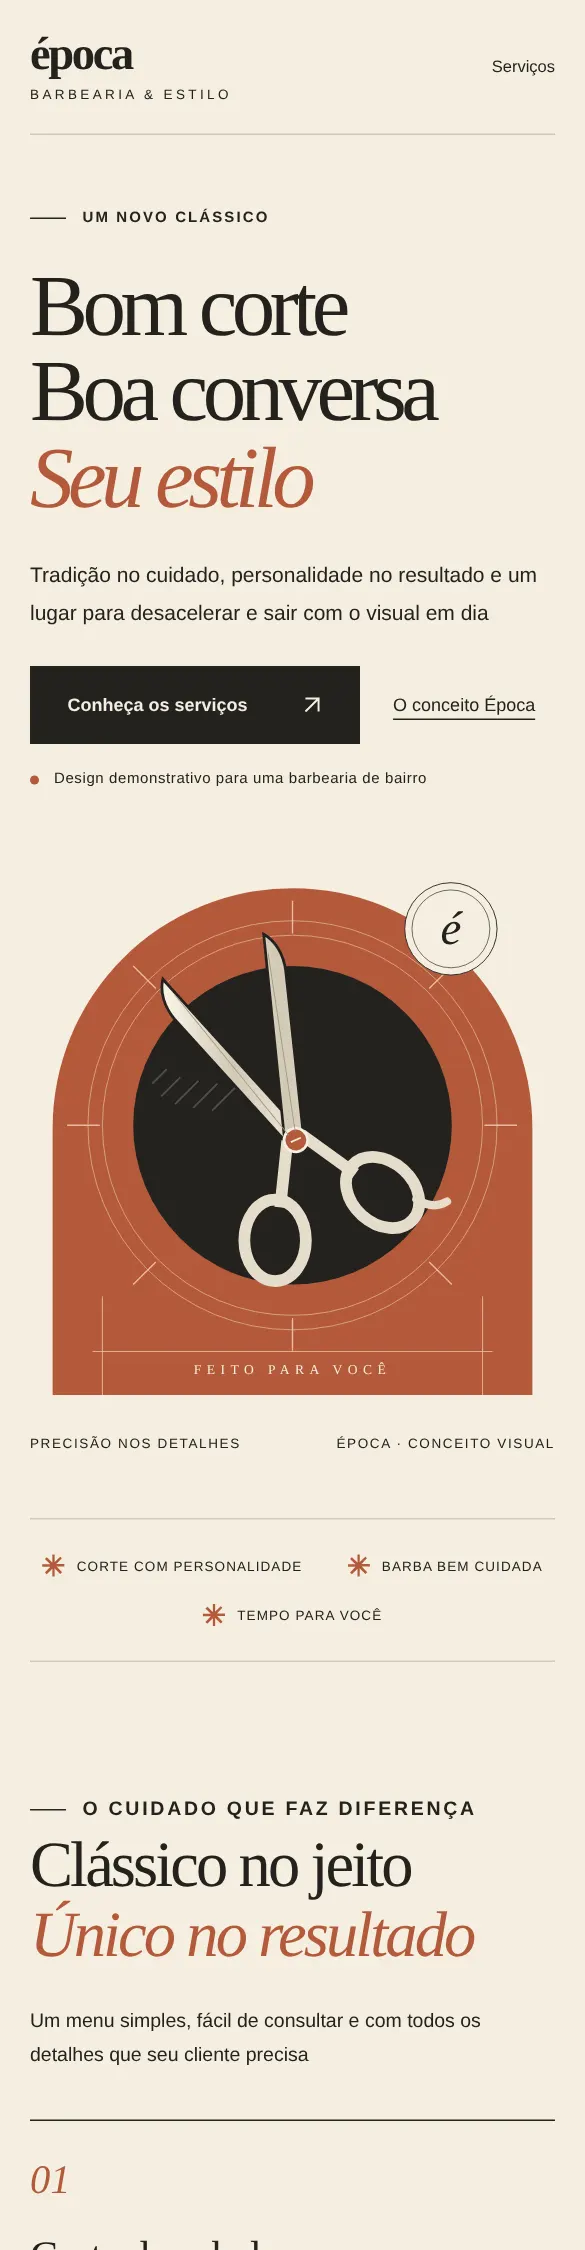
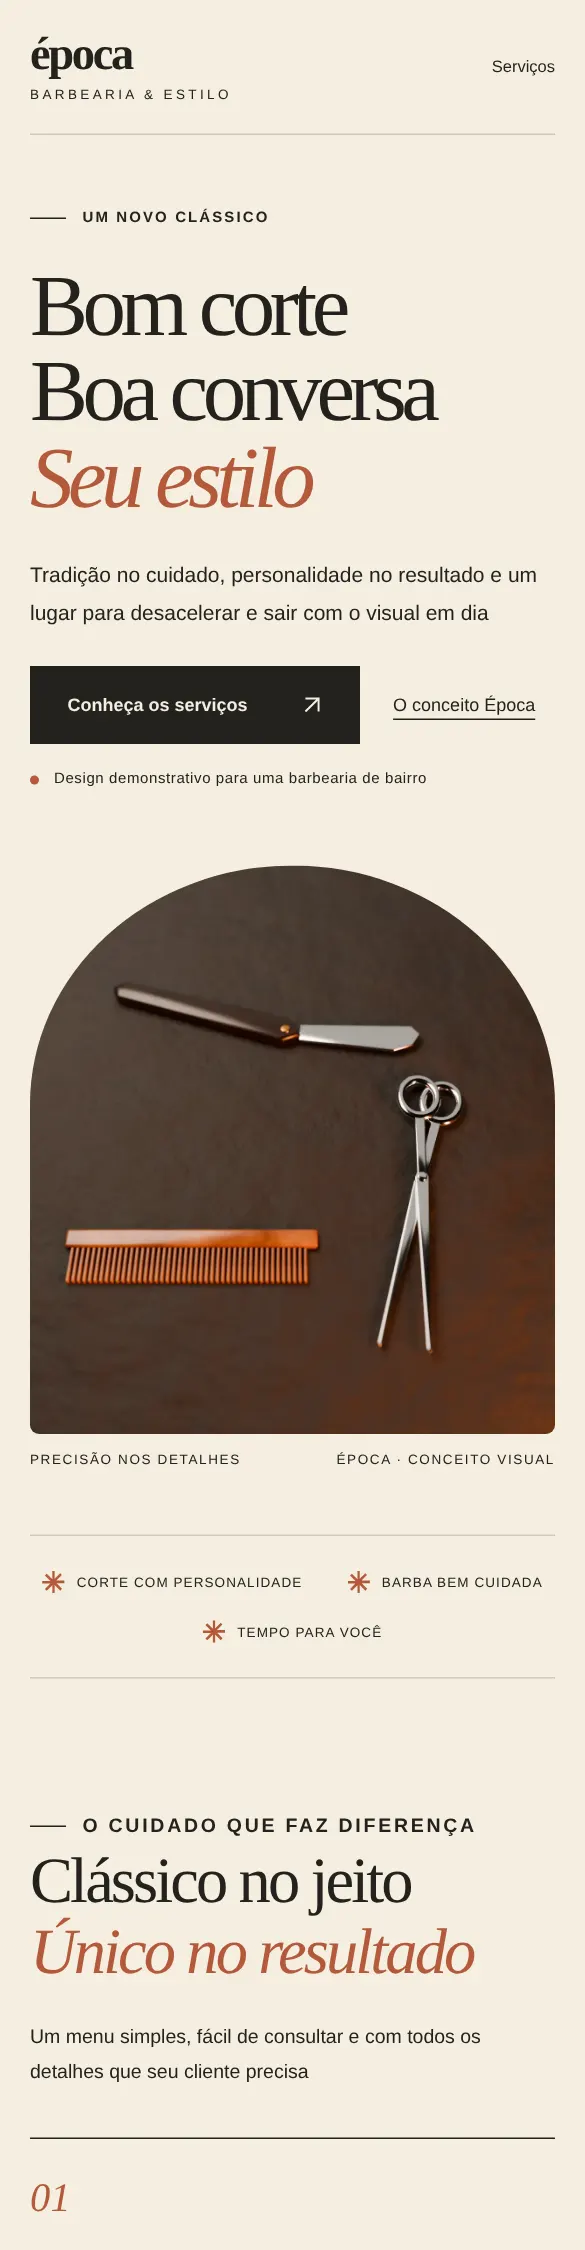
Fotos realistas (Blender) nos exemplos de /projetos e telas do celular atualizadas
Claude-Session: https://claude.ai/code/session_014CFV4YqhbK1feddGqeVc6C

diff --git a/public/projetos.html b/public/projetos.html
@@ -40,38 +40,8 @@
             <div class="hero-actions"><a class="button" href="#b-servicos">Conheça os serviços</a><a class="text-link" href="#b-conceito">O conceito Época</a></div>
             <p class="hero-note">Design demonstrativo para uma barbearia de bairro</p>
           </div>
-          <div class="hero-art" aria-label="Ilustração autoral de uma tesoura de barbeiro, com moldura em arco e detalhes clássicos" role="img">
-            <svg viewBox="0 0 580 610" aria-hidden="true" focusable="false">
-              <defs>
-                <clipPath id="b-arch-clip"><path d="M25 585V290a265 265 0 0 1 530 0v295Z"/></clipPath>
-                <linearGradient id="b-blade" x1="0" y1="0" x2="1" y2="1"><stop stop-color="#fff9eb"/><stop offset=".52" stop-color="#d2c9b6"/><stop offset="1" stop-color="#f1e9d9"/></linearGradient>
-              </defs>
-              <path d="M25 585V290a265 265 0 0 1 530 0v295Z" fill="#b45a3b"/>
-              <g clip-path="url(#b-arch-clip)">
-                <circle cx="290" cy="287" r="226" fill="none" stroke="#d8a58a" stroke-width="1"/>
-                <circle cx="290" cy="287" r="210" fill="none" stroke="#d8a58a" stroke-width="1"/>
-                <path d="M290 39v36m0 425v36M41 287h36m425 0h36M114 111l25 25m302 302 25 25m0-352-25 25M139 438l-25 25" stroke="#e7baa2" stroke-width="1.5"/>
-                <circle cx="290" cy="287" r="176" fill="#23221f"/>
-                <path d="m135 241 16-16m-6 30 21-21m-6 30 26-26m-6 30 27-27m-6 30 27-27" stroke="#e1d7c4" stroke-width="2" opacity=".25"/>
-                <g transform="rotate(-24 290 295)">
-                  <path d="M280 304 222 128c-5-17-3-34 6-46l71 216Z" fill="url(#b-blade)" stroke="#23221f" stroke-width="3"/>
-                  <path d="m299 305 57-177c5-17 3-34-6-46l-71 216Z" fill="url(#b-blade)" stroke="#23221f" stroke-width="3"/>
-                  <path d="m281 301-37 64m54-64 37 64" stroke="#e5ddcb" stroke-width="13"/>
-                  <ellipse cx="224" cy="396" rx="34" ry="45" transform="rotate(24 224 396)" fill="none" stroke="#e5ddcb" stroke-width="13"/>
-                  <ellipse cx="354" cy="396" rx="34" ry="45" transform="rotate(-24 354 396)" fill="none" stroke="#e5ddcb" stroke-width="13"/>
-                  <path d="M385 418c8 12 18 18 30 16" fill="none" stroke="#e5ddcb" stroke-width="9" stroke-linecap="round"/>
-                  <circle cx="290" cy="304" r="13" fill="#b45a3b" stroke="#f4eedf" stroke-width="3"/>
-                  <path d="m284 304h12" stroke="#f4eedf" stroke-width="2"/>
-                  <path d="m233 103 52 193m61-193-53 193" stroke="#a29884" stroke-width="1"/>
-                </g>
-                <path d="M69 537H511" stroke="#e7baa2"/>
-                <text x="290" y="562" text-anchor="middle" fill="#f4eedf" font-family="Georgia,serif" font-size="15" letter-spacing="6">FEITO PARA VOCÊ</text>
-                <path d="M80 590V476m420 114V476" stroke="#e7baa2" stroke-width="1"/>
-              </g>
-              <circle cx="465" cy="70" r="51" fill="#f4eedf" stroke="#23221f" stroke-width="1"/>
-              <circle cx="465" cy="70" r="43" fill="none" stroke="#23221f" stroke-width=".7"/>
-              <text x="465" y="87" text-anchor="middle" fill="#23221f" font-family="Georgia,serif" font-size="52" font-style="italic">é</text>
-            </svg>
+          <div class="hero-art hero-photo">
+        <img src="/assets/demos/barbearia.webp" alt="Navalha cromada, tesoura e pente de barbeiro sobre pedra escura, com luz cobre" width="1200" height="1300" decoding="async">
             <div class="art-caption"><span>Precisão nos detalhes</span><span>Época · Conceito visual</span></div>
           </div>
         </section>
@@ -119,27 +89,8 @@
       <main>
         <section class="hero shell" aria-labelledby="r-hero-title">
           <div class="hero-copy"><p class="eyebrow">Comida boa, sem pressa</p><h1 id="r-hero-title">Da terra<br>à mesa<br><em>Com afeto</em></h1><p class="hero-description">Ingredientes da estação, receitas que abraçam e o prazer de sentar à mesa, simples como as melhores coisas da vida</p><div class="hero-actions"><a class="button" href="#r-cardapio">Explore o cardápio</a><a class="text-link" href="#r-cozinha">Conheça a cozinha</a></div><p class="hero-note">Um conceito de restaurante, feito para inspirar</p></div>
-          <div class="hero-art" role="img" aria-label="Ilustração autoral de um prato com vegetais, folhas e ervas, em uma mesa verde suave">
-            <svg viewBox="0 0 560 570" aria-hidden="true" focusable="false">
-              <defs><pattern id="r-napkin" width="12" height="12" patternUnits="userSpaceOnUse"><path d="M0 0h12v12H0Z" fill="#d5d8bf"/><path d="M0 0h12M0 0v12" stroke="#a9af93" stroke-width=".5"/></pattern></defs>
-              <path d="m20 102 145-46 63 297-148 40Z" fill="url(#r-napkin)"/>
-              <ellipse cx="296" cy="315" rx="218" ry="218" fill="#c9cdb8"/>
-              <circle cx="284" cy="295" r="212" fill="#f7f2e6"/>
-              <circle cx="284" cy="295" r="186" fill="none" stroke="#d7d1bd" stroke-width="2"/>
-              <circle cx="284" cy="295" r="163" fill="#ede5d1"/>
-              <path d="M178 226c36-64 118-68 151-24 56-34 122 6 111 50 18 33-23 100-72 113-44 58-121 45-149 7-61 0-74-79-41-146Z" fill="#6b7d43"/>
-              <path d="M207 290c-45-20-57-48-35-69 39-21 67 26 35 69Zm39-52c-18-41-8-72 17-70 34 10 27 53-17 70Zm59-2c-14-47 6-70 29-57 25 28 7 52-29 57Zm61 34c-2-40 23-59 41-42 17 28-9 51-41 42Zm-13 67c37-23 72-11 69 14-15 34-64 26-69-14Zm-83 26c24 32 16 64-13 58-25-15-20-43 13-58Z" fill="#86975a"/>
-              <path d="M210 326c-18-41 6-58 31-39 11 37-5 51-31 39Zm88-30c-11-41 19-70 44-51 23 45-17 67-44 51Zm37 75c-20-35 3-58 29-39 15 31-3 49-29 39Z" fill="#35472f"/>
-              <g fill="#c46440" stroke="#983c27" stroke-width="2"><circle cx="230" cy="230" r="31"/><circle cx="343" cy="310" r="33"/><circle cx="260" cy="359" r="29"/></g>
-              <g fill="#e98c5e"><path d="m230 206 3 18 14-9-7 14 16 4-19 2 8 15-13-8-2 14-4-20-13 9 8-14-14-4 19-2-8-12 12 8Z"/><path d="m343 284 4 17 14-9-8 15 17 3-19 3 8 15-12-8-4 13-4-18-14 8 9-14-17-3 18-3-7-13 12 10Z"/><path d="m260 336 4 15 13-7-8 13 15 4-16 1 7 13-12-7-3 14-3-18-13 8 8-13-15-3 17-3-6-12 9 9Z"/></g>
-              <g fill="#f6d18b" stroke="#ccae75" stroke-width="1"><path d="m227 282 38-17 14 29-40 15Z"/><path d="m315 202 29 9-11 37-32-10Z"/><path d="m302 340 25 22-23 28-25-22Z"/></g>
-              <g fill="#f8ebbe"><ellipse cx="284" cy="272" rx="6" ry="10" transform="rotate(38 284 272)"/><ellipse cx="215" cy="345" rx="5" ry="9" transform="rotate(-24 215 345)"/><ellipse cx="364" cy="251" rx="5" ry="9" transform="rotate(40 364 251)"/><ellipse cx="390" cy="313" rx="4" ry="8" transform="rotate(-25 390 313)"/></g>
-              <g fill="none" stroke="#e6dbb5" stroke-width="2"><path d="M242 178c30 12 48 54 72 55m-118 74c12 33 59 27 63 66m84-113c-17 41 25 54 2 86"/></g>
-              <g transform="rotate(11 486 350)" fill="#35472f"><path d="M479 167h9v360h-9Z"/><path d="M471 98h25v54c0 17-25 17-25 0Z"/><path d="M474 92v42m8-42v42m9-42v42" stroke="#e4e7d3" stroke-width="4"/></g>
-              <path d="M121 475c-11 19-39 20-55 6 1-25 27-43 50-29m-12 5c-4-24 12-44 34-41 14 21-1 42-24 49" fill="#71834e"/>
-              <path d="m75 480 77-42" stroke="#35472f" stroke-width="2"/>
-              <circle cx="404" cy="83" r="41" fill="#35472f"/><text x="404" y="88" text-anchor="middle" font-family="Georgia,serif" font-size="13" fill="#f7f2e6" font-style="italic">à mesa!</text>
-            </svg>
+          <div class="hero-art hero-photo">
+        <img src="/assets/demos/restaurante.webp" alt="Prato de caprese com tomate, muçarela e manjericão, talheres sobre guardanapo verde e taça de vinho, vistos de cima" width="1200" height="1300" decoding="async">
             <div class="art-caption"><span>Fresco por natureza</span><span>Uma pitada de afeto</span></div>
           </div>
         </section>
@@ -175,35 +126,8 @@
       <main>
         <section class="hero shell" aria-labelledby="p-hero-title">
           <div class="hero-copy"><p class="eyebrow">Todo pet merece esse carinho</p><h1 id="p-hero-title">Pequenas patas<br>Grandes<br><em>cuidados</em></h1><p class="hero-description">Banho, tosa e tudo o que seu melhor amigo precisa, em um clube de carinho para cães, gatos e suas pessoas favoritas</p><div class="hero-actions"><a class="button" href="#p-cuidados">Conheça os cuidados</a><a class="text-link" href="#p-clube">Entre no clima</a></div><p class="hero-note">Um conceito de pet shop cheio de personalidade</p></div>
-          <div class="hero-art" role="img" aria-label="Ilustração autoral de um cachorro alegre com coleira lilás, cercado por uma bola e formas coloridas">
-            <svg viewBox="0 0 550 570" aria-hidden="true" focusable="false">
-              <path d="M105 111c-41-16-74 22-42 55 21 18 8 41-18 32" fill="none" stroke="#f4a8c8" stroke-width="24" stroke-linecap="round"/>
-              <circle cx="431" cy="130" r="47" fill="#f6cc62"/>
-              <path d="m431 97 8 21 24 2-19 15 6 24-20-14-20 14 7-24-20-15 25-2Z" fill="#3b2552"/>
-              <path d="M230 452c-66-25-92-76-68-126 15-31 30-42 17-67" fill="none" stroke="#d8a85c" stroke-width="30" stroke-linecap="round"/>
-              <ellipse cx="290" cy="504" rx="157" ry="22" fill="#dfd0f3"/>
-              <path d="M202 442c-4-54 7-123 49-135h93c44 17 53 79 44 135l-19 46H221Z" fill="#f0c979"/>
-              <path d="M261 324c-35 30-28 104-8 160h66c21-70 33-144 1-160Z" fill="#fff1d6"/>
-              <path d="M230 399c-10 15-30 41-32 65-5 22 8 30 35 29h20c9-13 2-59-3-76m89-18c12 15 32 41 35 65 4 22-9 30-35 29h-20c-9-13-1-59 4-76" fill="#f8dda2"/>
-              <path d="M219 477v11m13-11v12m106-12v11m13-11v12" stroke="#ca9c56" stroke-width="2" stroke-linecap="round"/>
-              <path d="M194 224c-38-59-20-114 17-114 27 5 36 63 37 99m119 15c38-59 20-114-17-114-26 5-35 63-36 99" fill="#bd8b48"/>
-              <path d="M191 128c-25 13-28 52-8 87m182-87c24 13 27 52 7 87" fill="none" stroke="#a3713c" stroke-width="4" stroke-linecap="round"/>
-              <path d="M184 226c0-65 26-107 96-107s108 43 108 107c0 62-49 110-102 110-64 0-102-44-102-110Z" fill="#f6d493"/>
-              <path d="M275 123c-14 23-10 74 2 95 13 0 30 3 35 10 11-35-3-79-19-107Z" fill="#fff1d6"/>
-              <ellipse cx="238" cy="224" rx="9" ry="12" fill="#3b2552"/><ellipse cx="333" cy="224" rx="9" ry="12" fill="#3b2552"/>
-              <circle cx="241" cy="220" r="3" fill="#fff7ea"/><circle cx="336" cy="220" r="3" fill="#fff7ea"/>
-              <path d="M220 199c8-7 17-8 26-4m78 0c10-4 19-3 26 4" fill="none" stroke="#bd8b48" stroke-width="5" stroke-linecap="round"/>
-              <ellipse cx="258" cy="271" rx="39" ry="30" fill="#fff1d6"/><ellipse cx="317" cy="271" rx="39" ry="30" fill="#fff1d6"/>
-              <path d="M269 259c-2-10 8-15 18-15s21 5 19 15c-3 9-13 12-18 12s-17-3-19-12Z" fill="#3b2552"/>
-              <path d="M287 269v16m-23-1c5 13 19 12 23 1 5 12 19 12 25-1" fill="none" stroke="#3b2552" stroke-width="3" stroke-linecap="round"/>
-              <path d="M272 299c2 29 31 34 31 0Z" fill="#f4a8c8"/><path d="M288 307v12" stroke="#d277a0" stroke-width="2" stroke-linecap="round"/>
-              <path d="M204 310c38 28 120 34 165 0l-7 22c-50 32-114 22-151 0Z" fill="#9d75cb"/>
-              <circle cx="285" cy="353" r="17" fill="#f6cc62" stroke="#3b2552" stroke-width="2"/>
-              <path d="M285 345v16m-8-8h16" stroke="#3b2552" stroke-width="2"/>
-              <circle cx="106" cy="462" r="42" fill="#f4a8c8"/><path d="M72 438c18 20 40 22 67 10m-59 43c8-24 32-33 62-24" fill="none" stroke="#3b2552" stroke-width="2"/>
-              <path d="m446 352 15 5 5 15 5-15 15-5-15-5-5-15-5 15Z" fill="#9d75cb"/>
-              <path d="M63 283c-12-4-13-22-3-28 11-4 20 0 18 11 7-9 22-5 24 6 0 14-14 23-24 28Z" fill="#f6cc62"/>
-            </svg>
+          <div class="hero-art hero-photo">
+        <img src="/assets/demos/petshop.webp" alt="Tigela lilás com ração, petiscos em forma de osso, bolinha amarela e coleira com plaquinha dourada" width="1200" height="1300" decoding="async">
             <div class="art-caption"><span>Mais carinho, por favor</span><span>pata club</span></div>
           </div>
         </section>

diff --git a/public/projetos.css b/public/projetos.css
@@ -226,3 +226,9 @@ svg { display: block; width: 100%; height: auto; }
   html { scroll-behavior: auto; }
   *, *::before, *::after { transition-duration: .01ms !important; }
 }
+
+/* Blender photos at the top of each demo (art/demos.py) */
+.hero-photo img { display: block; width: 100%; height: auto; }
+.barber .hero-photo img { border-radius: 50% 50% 6px 6px / 42% 42% 6px 6px; }
+.restaurant .hero-photo img { border-radius: 48% 48% 3px 3px; }
+.pet .hero-photo img { border-radius: 45% 45% 30px 30px; }
